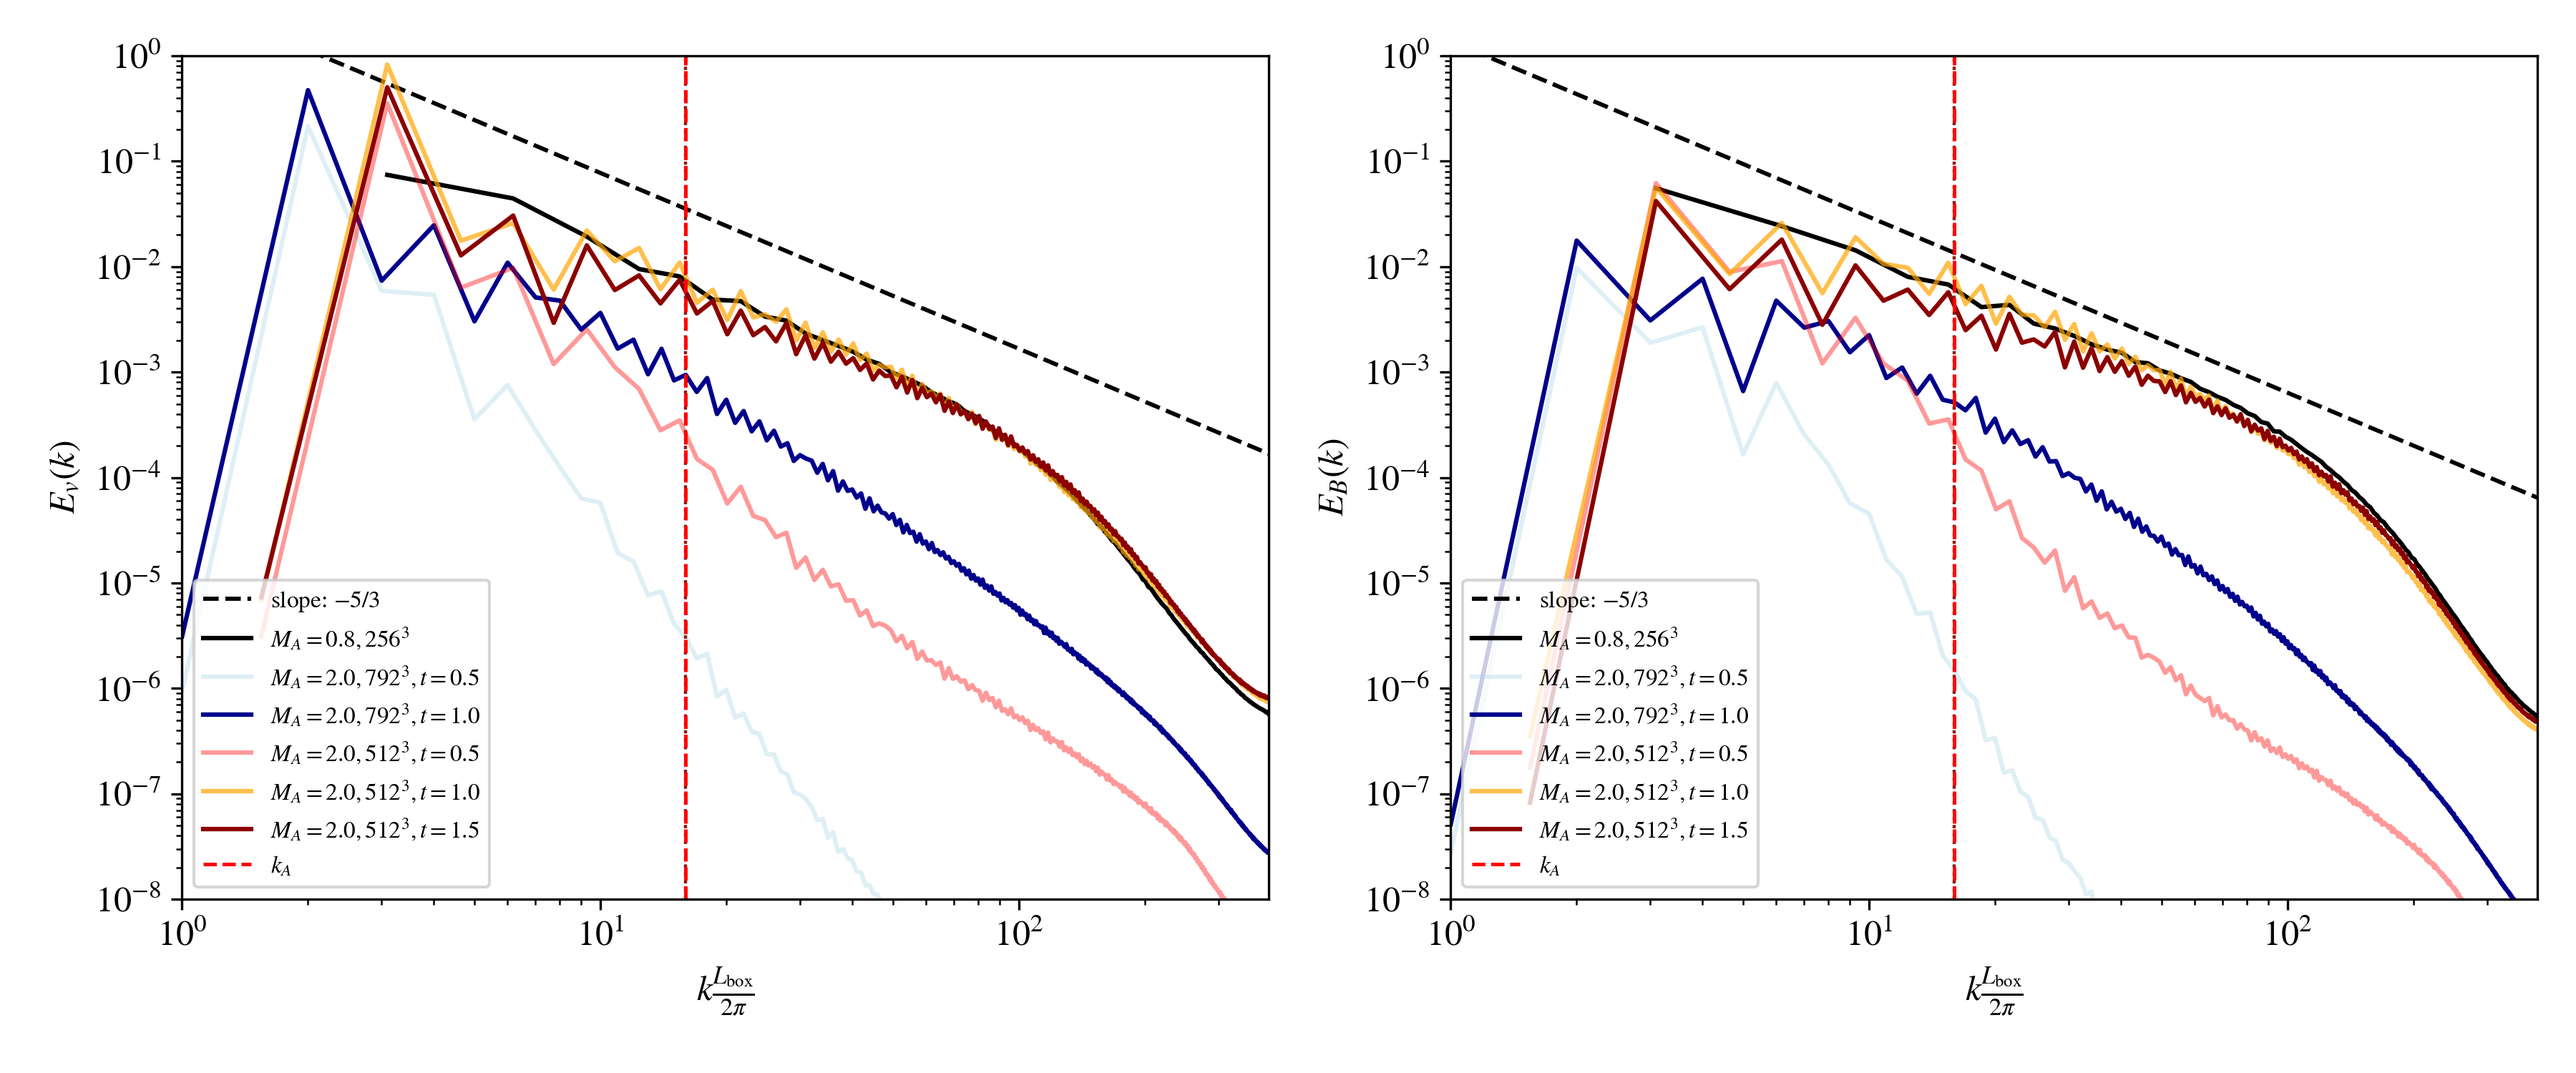
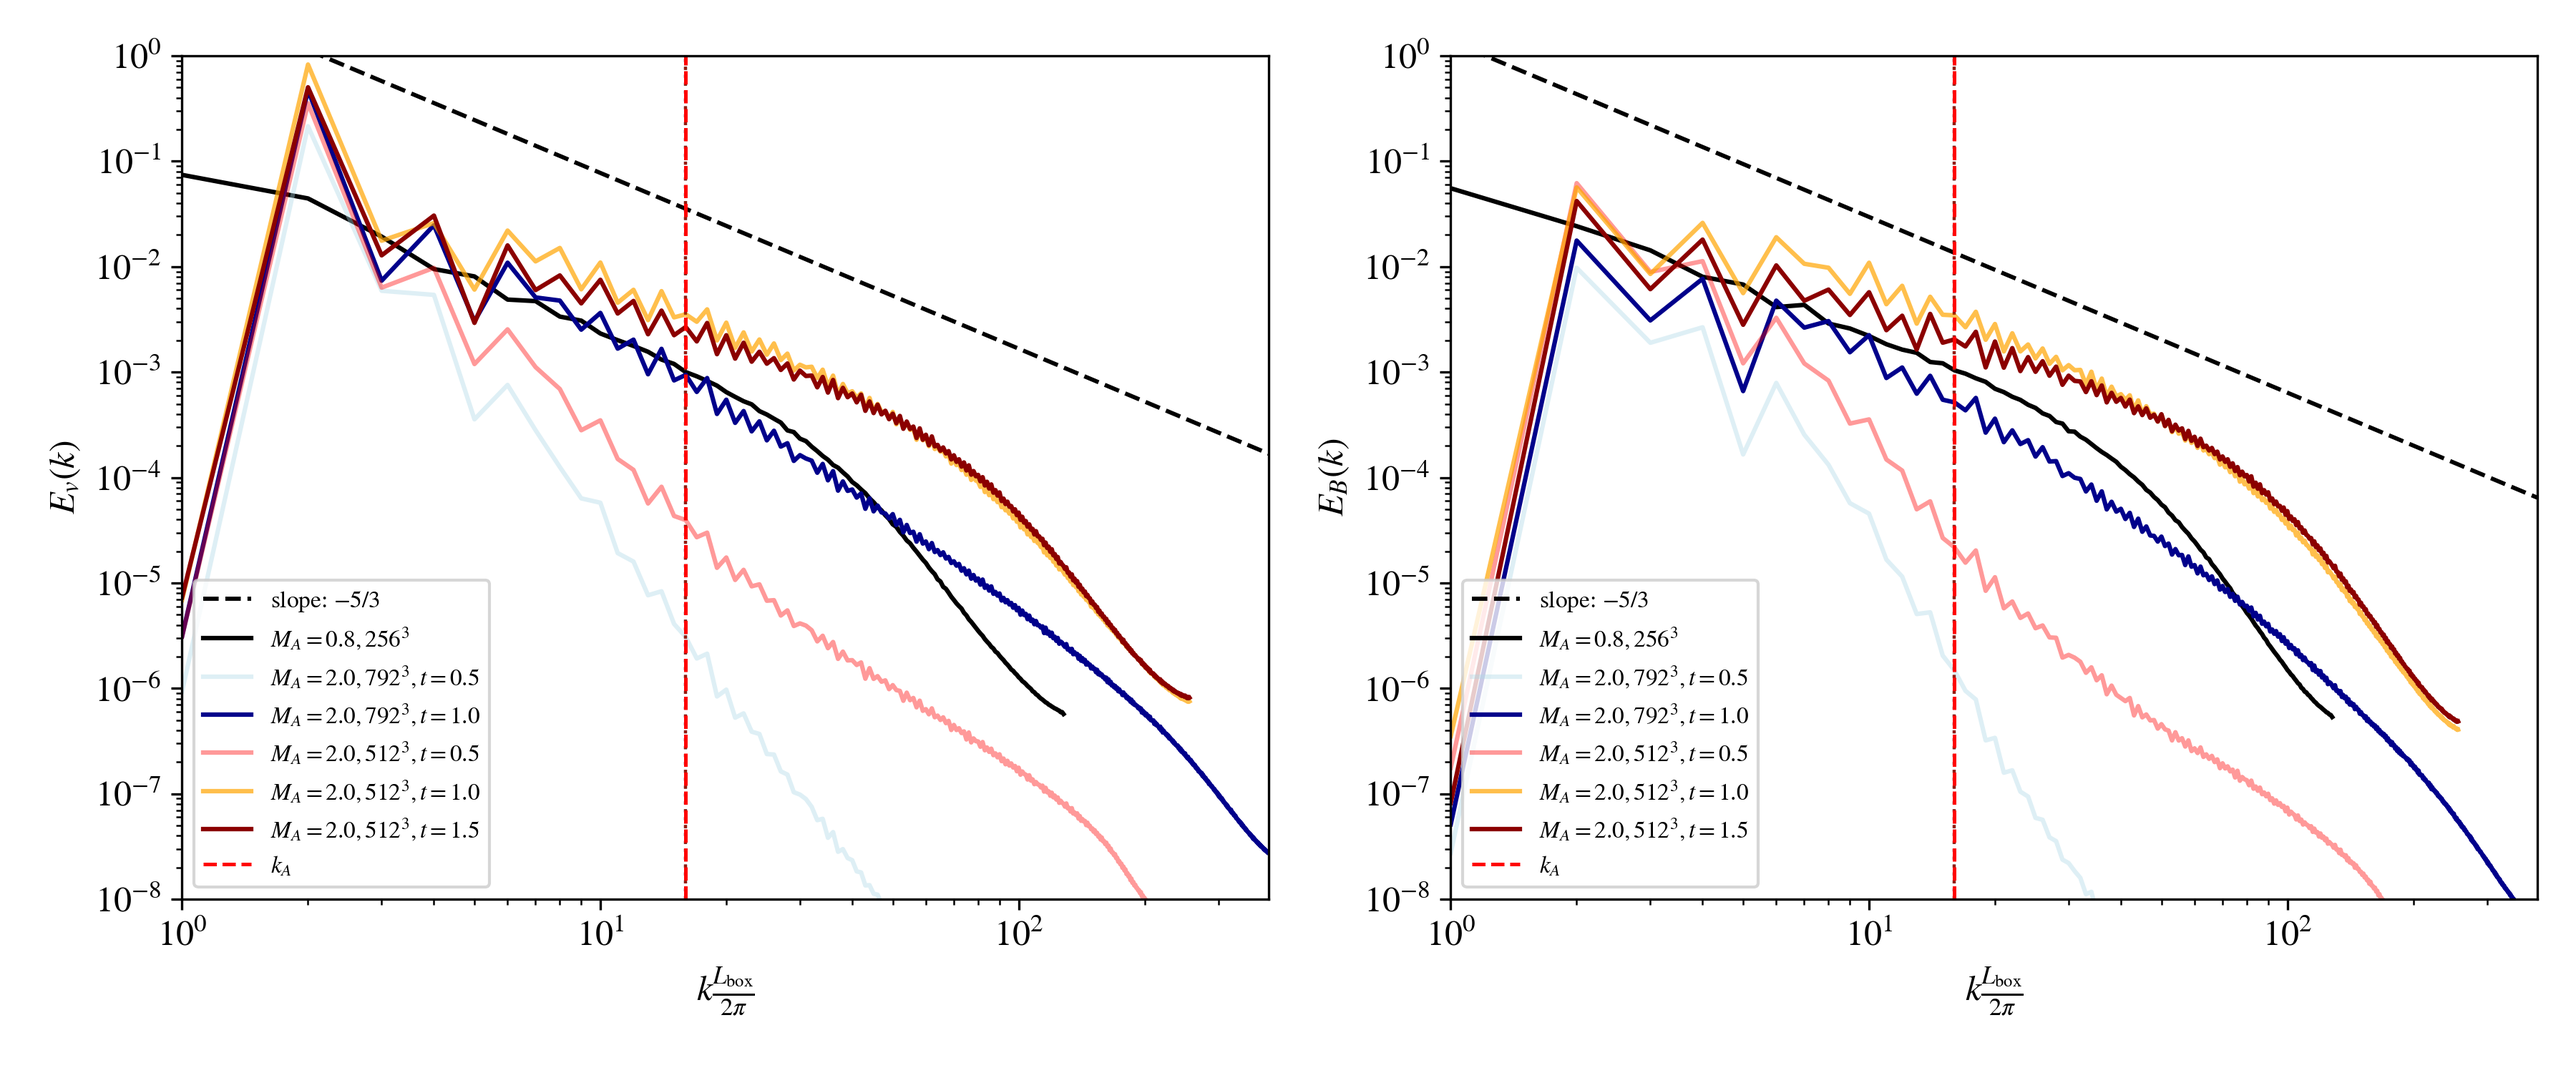
Without different x-scaling

diff --git a/vel_b_spectrum/boxes_comparison/recreate_figure.py b/vel_b_spectrum/boxes_comparison/recreate_figure.py
@@ -29,50 +29,36 @@ def replot(npz="M_A=2.0, 792^3, t=1.0.npz", meta="M_A=2.0, 792^3, t=1.0.json", o
     for ax, g in [(ax1, gv[mask_main]), (ax2, gb[mask_main])]:
         ax.loglog(kv_main[mask_main], g*50, "--", lw=1.4, label="slope: $-5/3$", c='k')
     
-    # Collect kA values first to find common position
-    kA_values = []
-    for npz_file, meta_file, label, color, alpha in data_files:
-        try:
-            m_add = json.load(open(meta_file))
-            kA_add = m_add["kA"]
-            kA_values.append(kA_add)
-        except:
-            kA_values.append(None)
-    
-    # Use the first valid kA as reference (or find median)
-    reference_kA = next((kA for kA in kA_values if kA is not None), None)
-    
     # Plot kA lines and data curves
-    for i, (npz_file, meta_file, label, color, alpha) in enumerate(data_files):
+    for npz_file, meta_file, label, color, alpha in data_files:
         try:
             a_add = np.load(npz_file)
             m_add = json.load(open(meta_file))
             kv_add, Ev_add, kb_add, Eb_add, kA_add = a_add["k_v"], a_add["E_v"], a_add["k_b"], a_add["E_b"], m_add["kA"]
             
-            # Scale x-axis for lower resolutions
-            if "512" in label:
-                scale_factor = (792/2) / (512/2)  # 396/256 = 1.547
-                kv_add = kv_add * scale_factor
-                kb_add = kb_add * scale_factor
+            # Get resolution limit
+            if "792" in label:
+                xlim_max = 792/2
+            elif "512" in label:
+                xlim_max = 512/2
             elif "256" in label:
-                scale_factor = (792/2) / (256/2)  # 396/128 = 3.094
-                kv_add = kv_add * scale_factor
-                kb_add = kb_add * scale_factor
+                xlim_max = 256/2
+            else:
+                xlim_max = 792/2  # default
             
             # Filter data
-            mask = kv_add <= 792/2
+            mask = kv_add <= xlim_max
             kv_f, Ev_f, kb_f, Eb_f = kv_add[mask], Ev_add[mask], kb_add[mask], Eb_add[mask]
             
-            # Plot kA line at reference position (all overlap)
-            if reference_kA is not None:
-                ax1.axvline(reference_kA, ls=":", lw=1.0, c=color, alpha=alpha*0.7)
-                ax2.axvline(reference_kA, ls=":", lw=1.0, c=color, alpha=alpha*0.7)
+            # Plot kA line if within limit
+            if kA_add <= xlim_max:
+                ax1.axvline(kA_add, ls=":", lw=1.0, c=color, alpha=alpha*0.7)
+                ax2.axvline(kA_add, ls=":", lw=1.0, c=color, alpha=alpha*0.7)
             
             # Plot spectra
             if "256" in label:
                 Ev_f *= 30 
                 Eb_f *= 30
-
 
             ax1.loglog(kv_f, Ev_f, lw=1.5, label=label, c=color, alpha=alpha)
             ax2.loglog(kb_f, Eb_f, lw=1.5, label=label, c=color, alpha=alpha)
